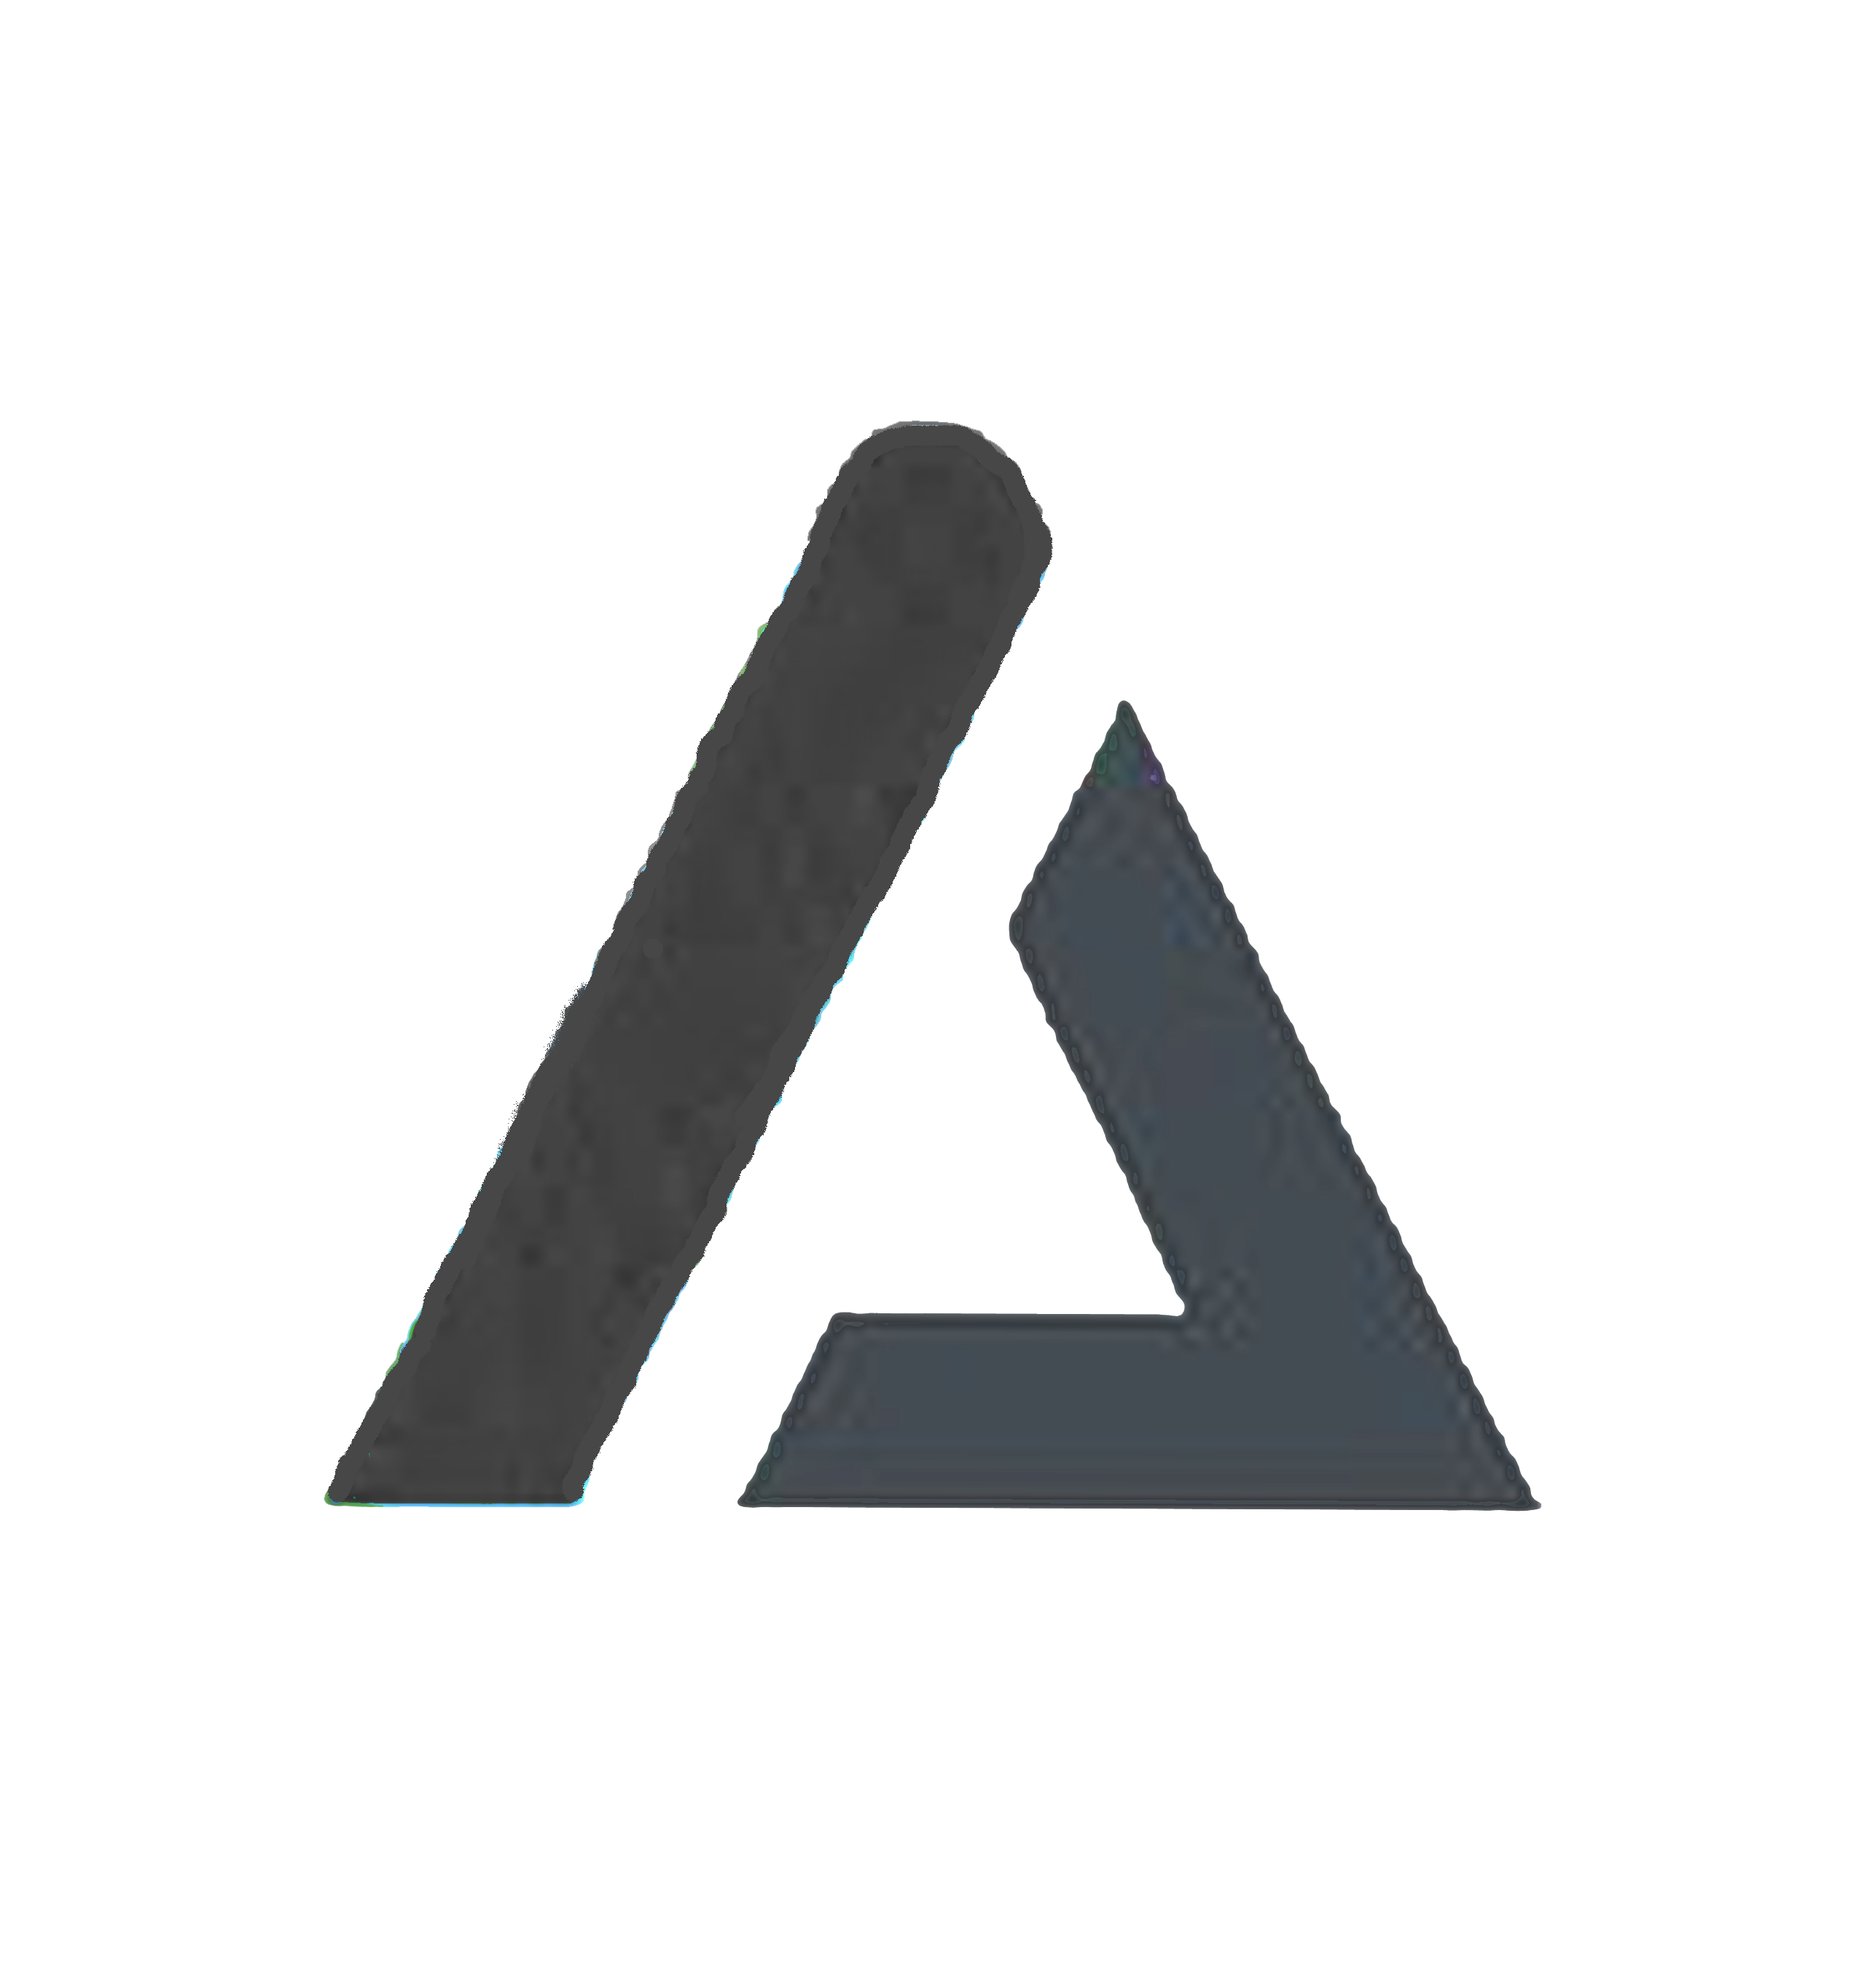
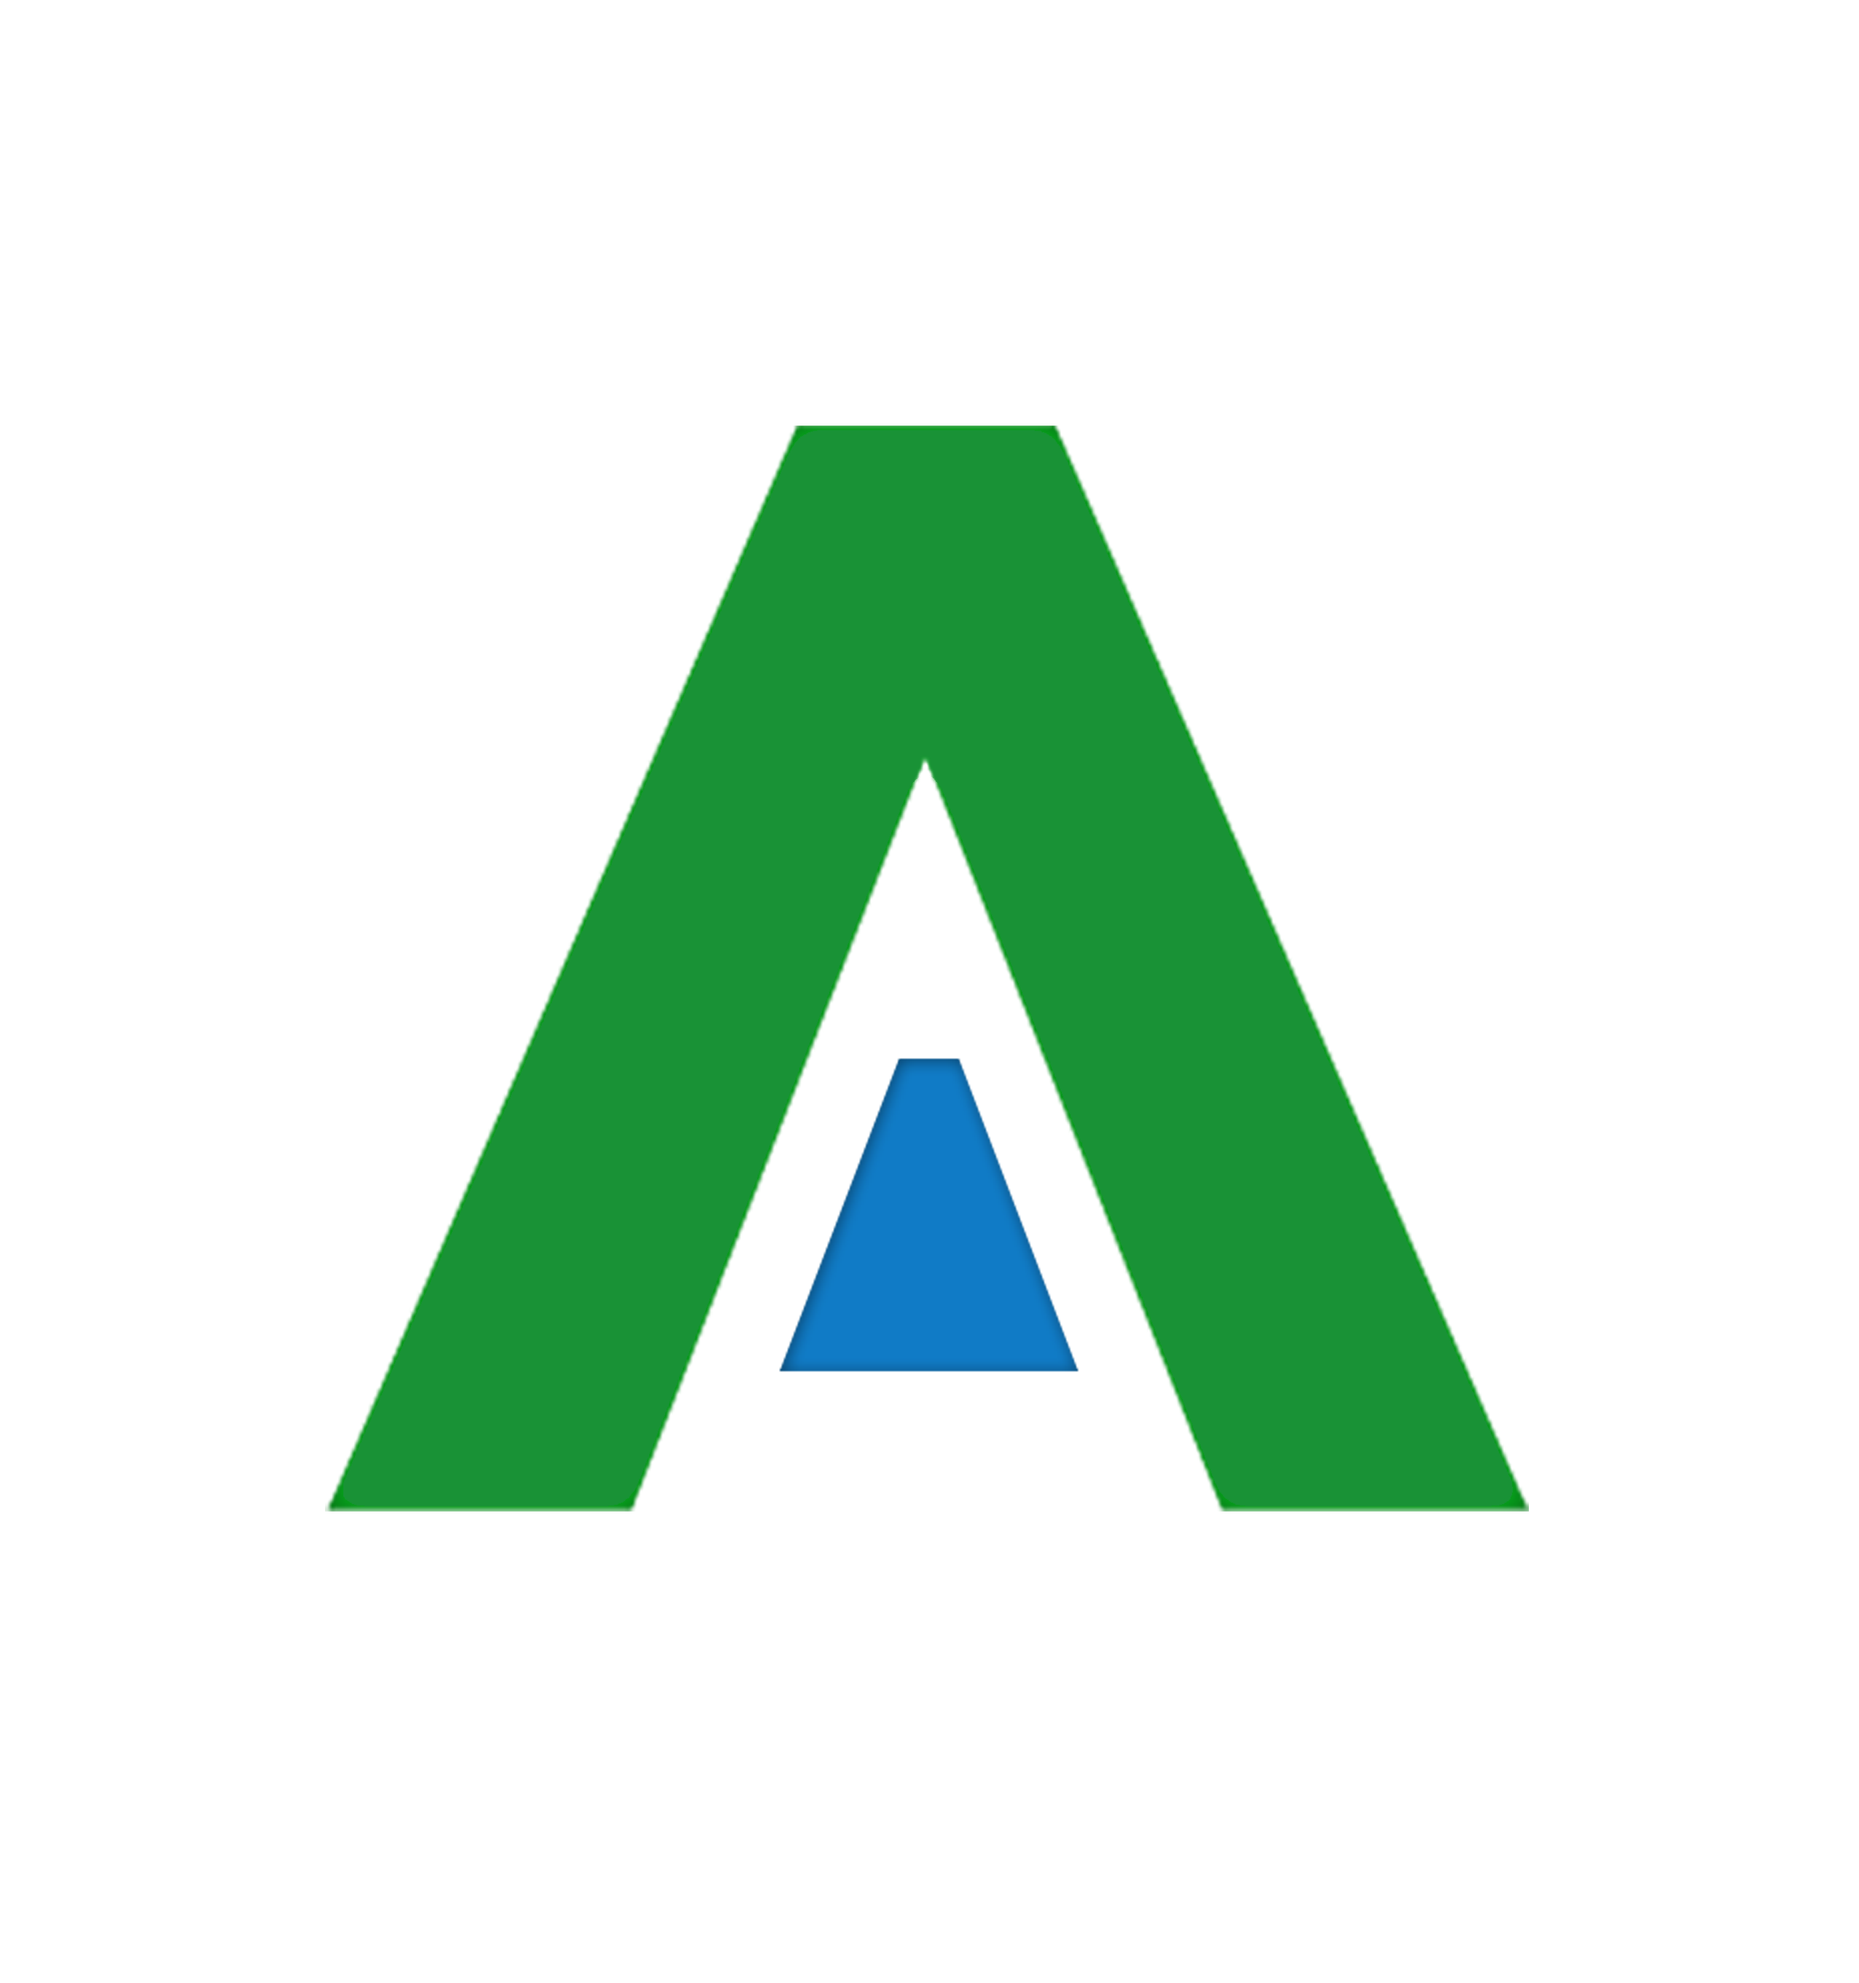
- Implementação de verificação CNPJ empresa:   -- Adicionado Ajax no cadastro de empresa.   -- Criado método de verificarCNPJ no Bean de Empresa.   obs: Ainda não cluindo dando erro de NullPointer, retornando nulo no método de verificarCNPJ no empresaDAO...
- Adicionada novas imagens com novo Desgner: Favicon e Logo(Login).
- Corrigo bug do Breadcrumbs.

Changed region(s): [[0.1548, 0.1874, 0.8361, 0.781]]

diff --git a/src/main/java/com/adisolucoes/adimanager/util/crud/CrudUtils.java b/src/main/java/com/adisolucoes/adimanager/util/crud/CrudUtils.java
@@ -80,7 +80,7 @@ public class CrudUtils implements Serializable {
         try {
             if (cpfCnpj != null && !cpfCnpj.equals("")) {
                 empresa = empresaDAO.buscarPorCnpj(cpfCnpj);
-            }
+            } 
             if (empresa != null) {
                 FacesUtils.showFacesMessage("Já existe uma Empresa com esse CNPJ", 1);
                 throw new ErroEmpresaDuplicadaException();

diff --git a/src/main/java/com/adisolucoes/adimanager/controller/EmpresaBean.java b/src/main/java/com/adisolucoes/adimanager/controller/EmpresaBean.java
@@ -102,6 +102,10 @@ public class EmpresaBean implements Serializable {
             LOG.log(Level.SEVERE, null, ex);
         }
     }
+    
+    public void verificarCpfCnpj() throws ErroEmpresaDuplicadaException{
+        crudUtils.verificarCpfCnpjEmpresa(empresa.getCnpj());
+    }
 
     public void preencherDadosPorCep() {
         crudUtils.preencherDadosPorCep(empresa.getEndereco());
